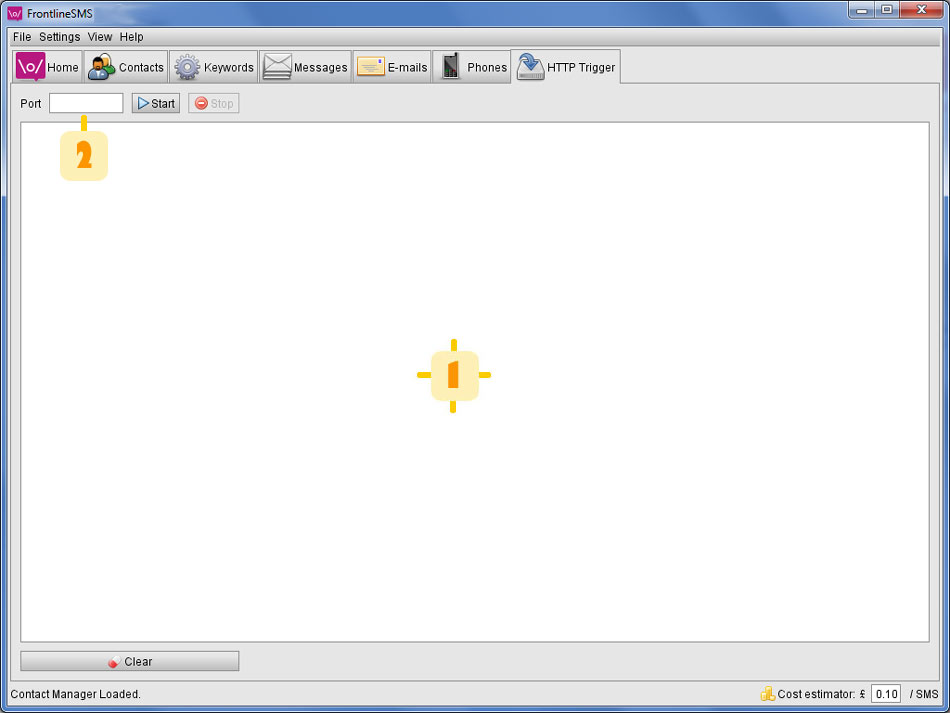
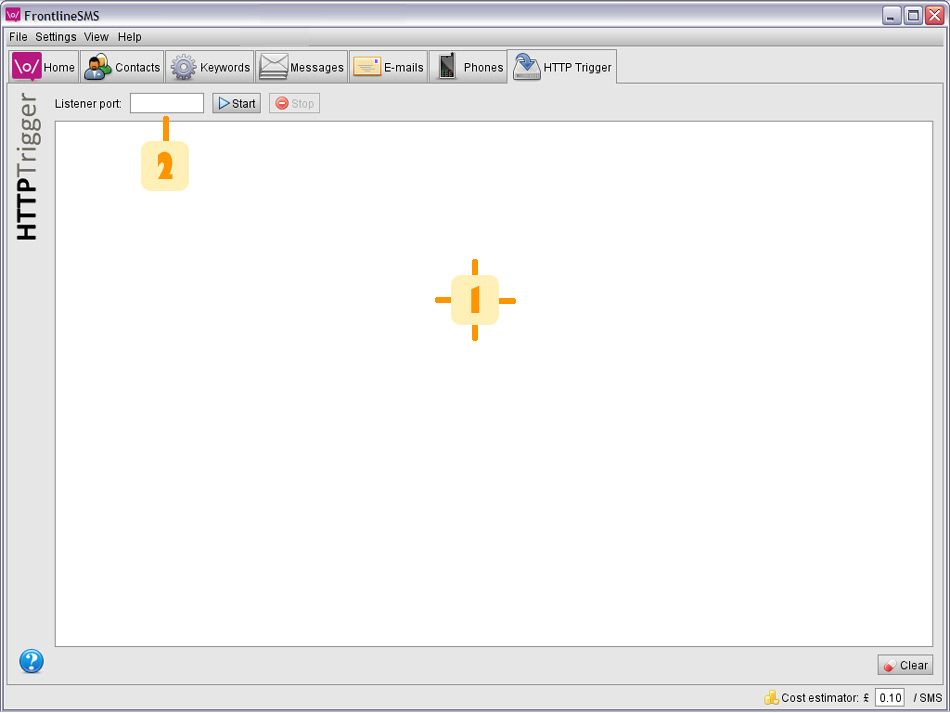
Updated to latest help files.

Changed region(s): [[0.0, 0.0, 1.0, 1.0], [0.4274, 0.3703, 0.5495, 0.5863]]

diff --git a/src/assemble/resources/package/help/help-menu.htm b/src/assemble/resources/package/help/help-menu.htm
@@ -95,7 +95,7 @@ A:hover {text-decoration: underline; }
       <a href="troubleshooting.htm"><font color="#800000">Troubleshooting</font></a></font></p>
       <p><font face="Arial" size="2">
       <a target="_blank" href="http://frontlinesms.ning.com">
-      <font color="#800000">FrontlineSMS Community on the Internet</font></a></font></p>
+      <font color="#800000">FrontlineSMS Community [requires the Internet]</font></a></font></p>
       <p align="right"><font face="Verdana" size="2" color="#800000"><b>
       <a target="_blank" href="http://www.kiwanja.net"><font color="#800000">
       kiwanja</font><font color="#808080">.</font><font color="#111111">net</font></a></b>

diff --git a/src/assemble/resources/package/help/httptrigger.htm b/src/assemble/resources/package/help/httptrigger.htm
@@ -54,7 +54,7 @@ A:hover {text-decoration: underline; }
       weather forecasts, and so on). HTTP Trigger allows these external programs 
       to pass text to FrontlineSMS, which is then sent out as a text message. 
       Please bear in mind that this is an </font><b>
-      <font face="Arial" size="2" color="#111111">advanced featue</font></b><font color="#666666" face="Arial" size="2"> 
+      <font face="Arial" size="2" color="#111111">advanced feature</font></b><font color="#666666" face="Arial" size="2"> 
       of FrontlineSMS, and is generally reserved for experienced software 
       developers</font></p>
       <p><b><font face="Arial" color="#333333"><br>

diff --git a/src/assemble/resources/package/help/troubleshooting.htm b/src/assemble/resources/package/help/troubleshooting.htm
@@ -44,7 +44,7 @@ div.Section1
       <i><font face="Arial" size="2" color="#666666">A few tips on helping get 
       your phone or device connected and working with FrontlineSMS</font></i></p>
       <p>
-      <img border="0" src="img/phonemanager.jpg" width="950" height="713"></p>
+      <img border="0" src="img/phonemanager.jpg" width="950" height="570"></p>
       <p><b><font face="Arial" color="#333333">Quick help</font></b></p>
       <p><font size="2" color="#666666">
       <span style="font-family: Arial,sans-serif">Before you dig any deeper into 
